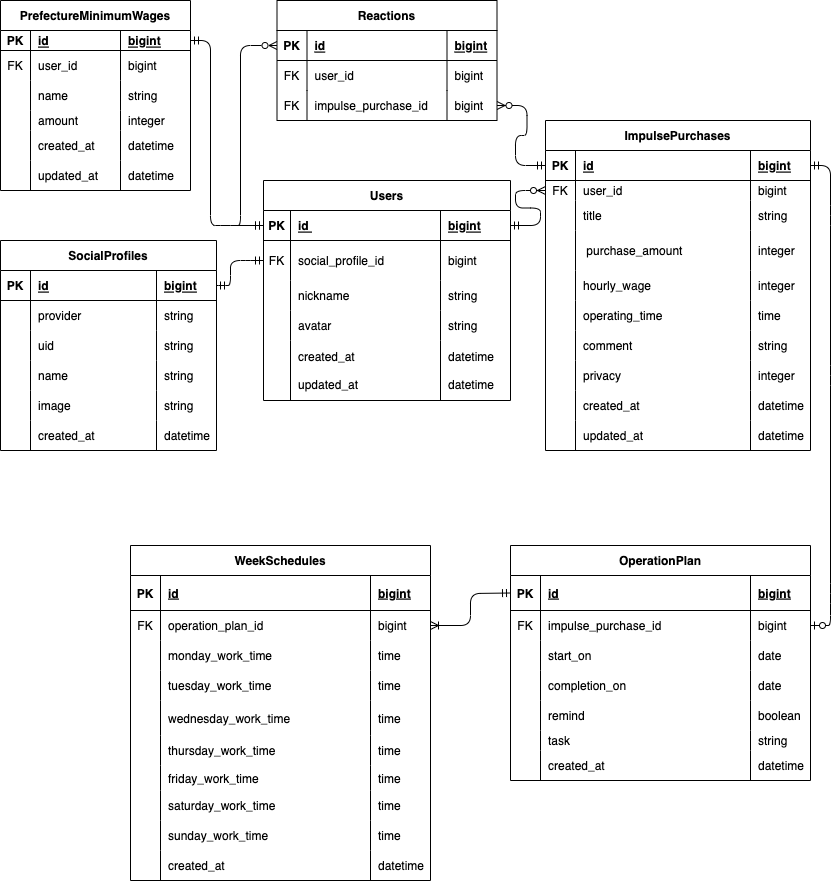
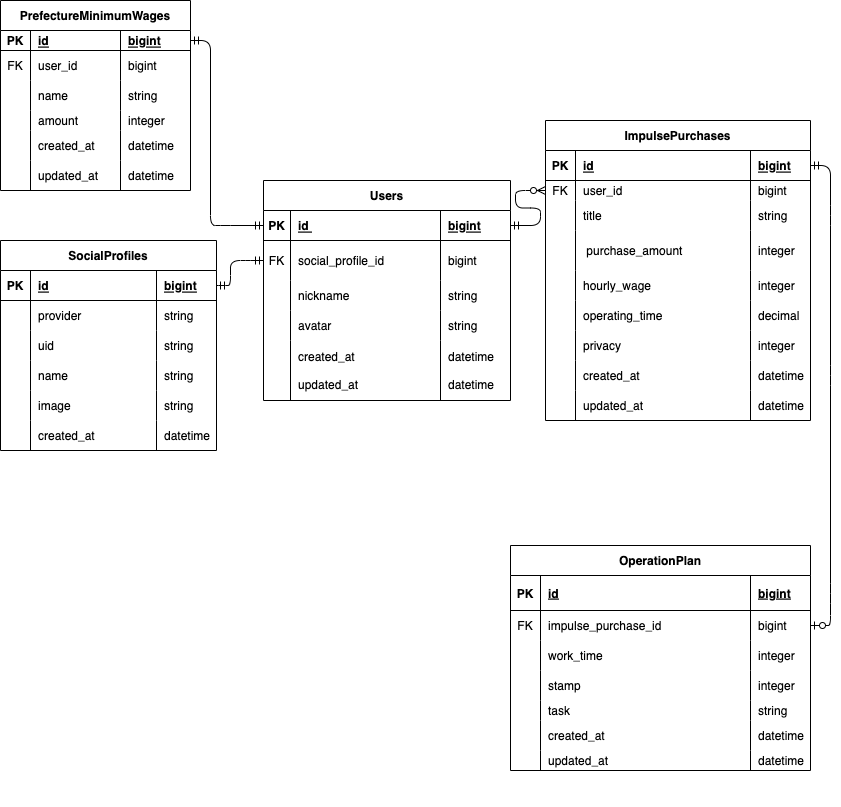
README修正

diff --git a/config/routes.rb b/config/routes.rb
@@ -1,6 +1,8 @@
 Rails.application.routes.draw do
   devise_for :users
   root "static_pages#top"
+  get "/term", to: "static_pages#term"
+  get "/privacy", to: "static_pages#privacy"
   # Define your application routes per the DSL in https://guides.rubyonrails.org/routing.html
 
   # Reveal health status on /up that returns 200 if the app boots with no exceptions, otherwise 500.

diff --git a/README.md b/README.md
@@ -13,9 +13,9 @@
 具体的な内容は
 衝動買いをしたら
 (衝動買い金額)÷（時給）＝（稼働時間）
-で算出された稼働時間分を普段しないことにあてることです。
+で算出された稼働時間分を普段しないことにあてる。
 結果、放置されていた事柄は前進し、衝動買いの罪悪感・後悔は減り、欲しいものは手に入る。
-そんな自身の衝動買い肯定ライフハックです。
+そのような衝動買い肯定ライフハックです。
 
 普段しないこと例：普段手をつけない箇所の掃除、後回しになっているコレクション品整理、着ていない服の整理、
 積まれ放置されている書籍に手をつける、筋トレ、運動etc....
@@ -24,42 +24,23 @@
 そのため購入ボタンを押してしまった後の金額を見て後悔することがしょっちゅうあります。
 しかし、「自分が欲しいと思ったもの買ってなんで後悔してんだ！！」とも思います。
 この後悔を抱いたまま残してしまうことにモヤモヤを感じていたので
-『衝動買いの防止』だけではなく『購入後の後悔』の行き場を作ろうと考え、実践していたのが上記の自己流ライフハックです。
-
-防止方法はいくつもあるのだし、衝動買いを肯定する方法が１つぐらいあってもいいじゃないかという自身の感想です。
+『衝動買いの防止』だけではなく『購入後の後悔』の行き場も作ろうと考え、実践していたのが上記の自己流ライフハックです。
 
 以上のことから、衝動買い後の罪悪感や後悔を行動力へ変換するお手伝いもできる衝動買い欲管理サービスを作ろうと思い立ちました。
 同じような思いを抱えている方の助けになるようなツールにしていきたいです。
-
-## ユーザー層について
-買い物が好きな人
-性別：ALL
-年齢：20〜30代
-結婚:独身、家庭を持ってない
-
-ある程度自由に使用できるお金・環境がある → 衝動買いのチャンスが多い
-と考えた為
 
 ## サービスの利用イメージ
 思い立った際に気軽に開けて分かりやすい結果が得られる。
 例：  ◯◯◯円購入で　◯◯時間の稼働
 それによって購入するか否かの決断をスムーズできる。
-または、購入を決断した後の稼働時間消化の予定を作成してくれる。
-
-
-## ユーザーの獲得について
-SNS共有機能を実装し、話題にしやすい状態にする。
-
+または、購入を決断した後の稼働時間消化のスタンプカードを作成。
 
 ## サービスの差別化ポイント・推しポイント
 衝動買いを未然に防止するという目的だけではなく、衝動買いをしてもよいという選択肢を提示できる。
 
-## 機能候補
-### MVP
+## 機能
 - 会員登録機能
 - ログイン機能
-- LINE連携機能
-- X連携機能
 - 診断結果の作成、保存
   - 内容
     - タイトル
@@ -67,26 +48,19 @@ SNS共有機能を実装し、話題にしやすい状態にする。
     - 作成日時
     - (衝動買い金額) ÷（時給）＝（稼働時間）
     - 購入を見送った or 購入した
-      - 購入した を選んだ場合、（稼働時間）を消化するための計画表
+      - 購入した を選んだ場合、（稼働時間）を消化するためのスタンプカード作成
         - 稼動する期間
         - 1日の（稼働時間）
         - 稼働中にやること
-- 過去に作成した診断結果の一覧表示・検索
-- SNS共有機能
-- 他ユーザーの診断結果一覧
-- いいね機能
+- 過去に作成した診断結果の一覧表示
 - 問い合わせ機能
 
-### 本リリース
-- LINE通知機能
-- ステップ入力・確認画面
-- カレンダー機能
-
 ## 機能の実装方針予定
-LINE通知機能：期間中、決まった時間にやることを繰り返しリマインドするため
-カレンダー機能：自身のやること・稼動する期間を可視化しやすくするため
+- LINE連携機能
+- X連携機能
+- SNS共有機能
 
 ## ER図
 ![Alt text](ER_Diagram.png)
 ## 画面遷移図
-[画面遷移図](https://www.figma.com/file/d2O7EGcTOsYNRaywy2BxNn/%E3%80%90%E6%8F%90%E5%87%BA%E7%94%A8%E3%80%91I'll-buy-that%EF%BC%81!?type=design&mode=design&t=T9tvLV2J2kxXdXCL-1)
+[画面遷移図](https://www.figma.com/design/d2O7EGcTOsYNRaywy2BxNn/%E3%80%90%E6%8F%90%E5%87%BA%E7%94%A8%E3%80%91I'll-buy-that%EF%BC%81!?node-id=0-1&t=UGFREQ1tvIcOoOeb-1)
